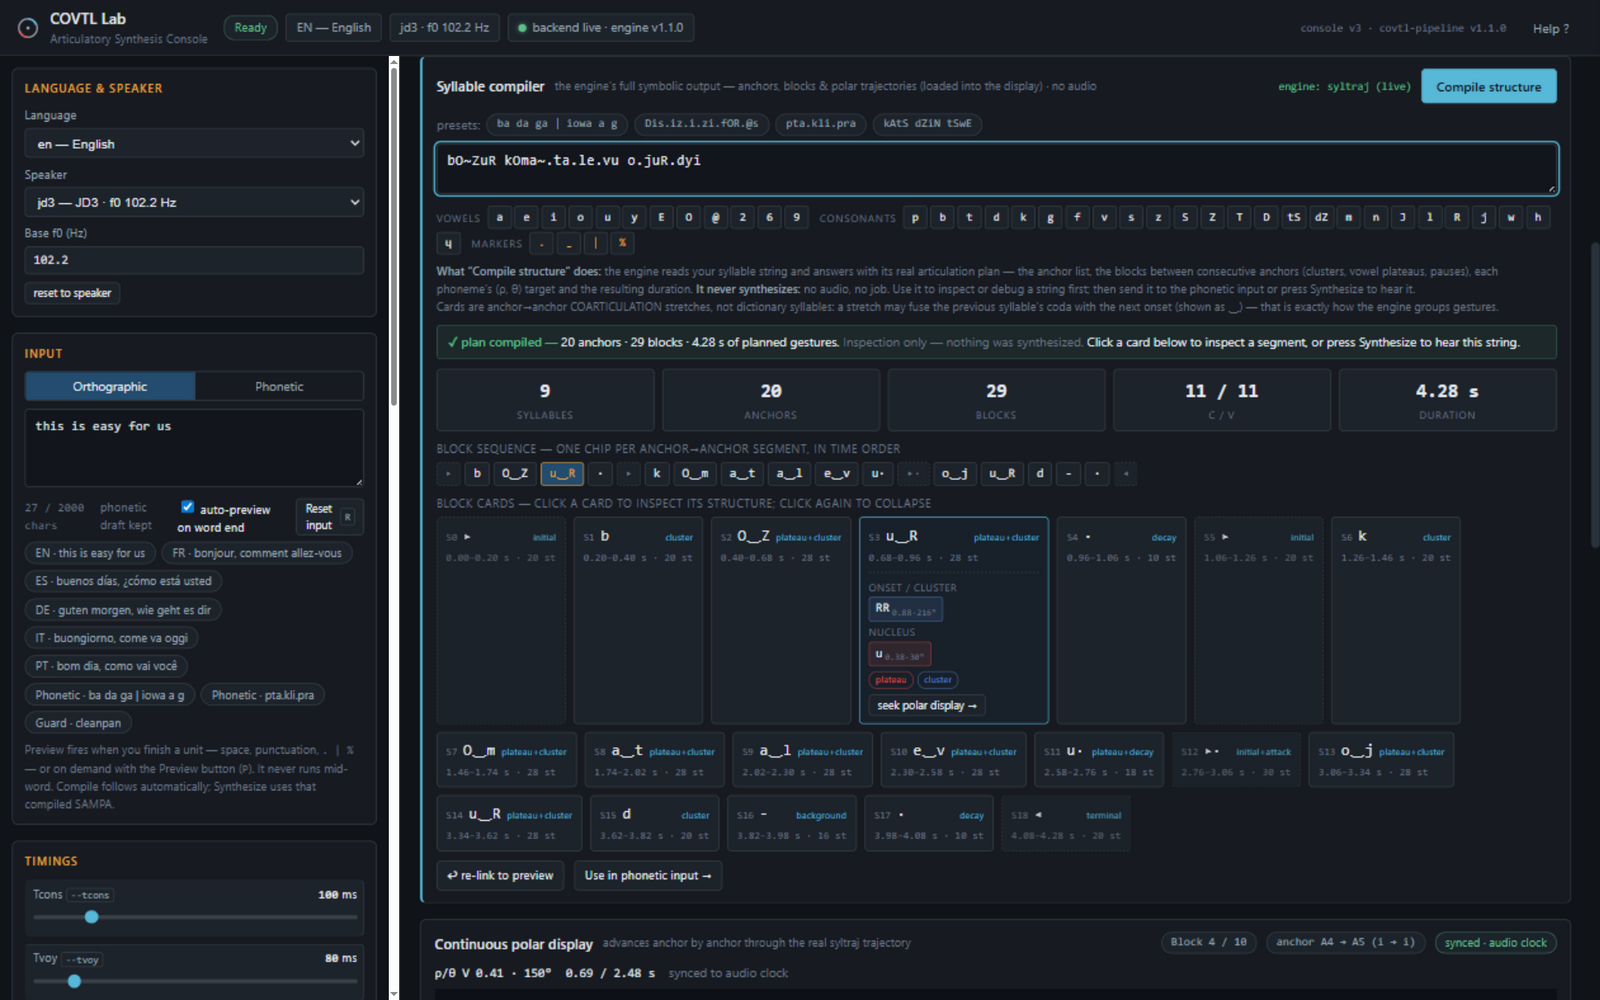
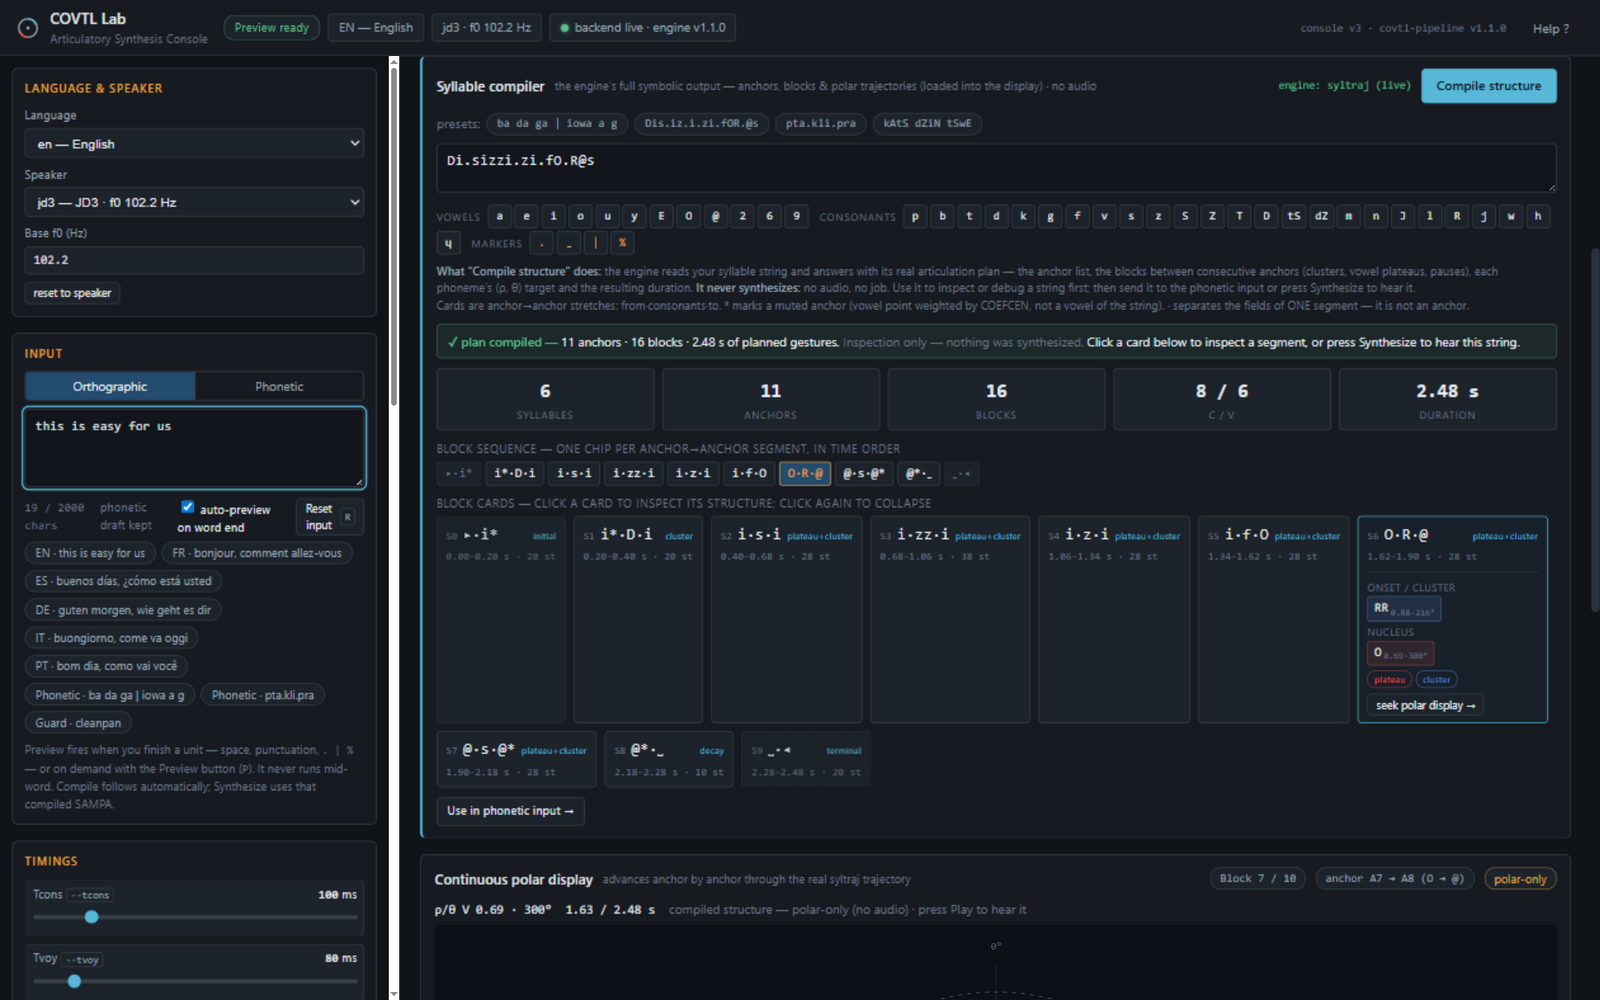
feat(ui): tile notation FROM·CONSONANTS·TO — muted anchors carry *, single server-side definition; docs + screenshots refreshed

diff --git a/covtl-console-standalone.html b/covtl-console-standalone.html
@@ -2826,10 +2826,10 @@ const KIND_TIP = {
   terminal: 'phrase-terminal arc → neutral',
 };
 
-/* chronological phoneme string of an anchor→anchor stretch: clusters and
- * plateaus in engine order, '‿' marking a consonant group that follows a
- * vowel inside the same stretch (coda of the previous syllable fused with
- * the next onset — that is the engine's coarticulation, not a syllable) */
+/* (stretchLabel removed — the tile notation is defined once, server-side:
+ * segment_notation() in server.py, exported as segments[].notation and
+ * segments_preview[].notation. Grammar: FROM·CONSONANTS·TO; '*' marks a
+ * muted anchor.) */
 const degDisplay = (rad) => ((90 - rad * 180 / Math.PI) % 360 + 360) % 360;
 
 class SyllableCompiler {
@@ -4410,8 +4410,8 @@ function flashSegment(idx) {
   compiler?.markPlayingSegment(idx);
 }
 
-/* phonetic unit label of an anchor→anchor segment: chronological stretch
- * (clusters and plateaus in engine order, ‿ = coda fused with next onset) */
+/* phonetic unit label of an anchor→anchor segment: the shared tile
+ * notation FROM·CONSONANTS·TO (server-side single definition) */
 function unitLabel(seg) {
   return seg.notation || '·';
 }

diff --git a/covtl_console/ui/js/compiler.js b/covtl_console/ui/js/compiler.js
@@ -51,10 +51,10 @@ const KIND_TIP = {
   terminal: 'phrase-terminal arc → neutral',
 };
 
-/* chronological phoneme string of an anchor→anchor stretch: clusters and
- * plateaus in engine order, '‿' marking a consonant group that follows a
- * vowel inside the same stretch (coda of the previous syllable fused with
- * the next onset — that is the engine's coarticulation, not a syllable) */
+/* (stretchLabel removed — the tile notation is defined once, server-side:
+ * segment_notation() in server.py, exported as segments[].notation and
+ * segments_preview[].notation. Grammar: FROM·CONSONANTS·TO; '*' marks a
+ * muted anchor.) */
 export const degDisplay = (rad) => ((90 - rad * 180 / Math.PI) % 360 + 360) % 360;
 
 export class SyllableCompiler {

diff --git a/covtl_console/ui/js/app.js b/covtl_console/ui/js/app.js
@@ -1154,8 +1154,8 @@ function flashSegment(idx) {
   compiler?.markPlayingSegment(idx);
 }
 
-/* phonetic unit label of an anchor→anchor segment: chronological stretch
- * (clusters and plateaus in engine order, ‿ = coda fused with next onset) */
+/* phonetic unit label of an anchor→anchor segment: the shared tile
+ * notation FROM·CONSONANTS·TO (server-side single definition) */
 function unitLabel(seg) {
   return seg.notation || '·';
 }

diff --git a/covtl_console/server.py b/covtl_console/server.py
@@ -426,8 +426,29 @@ def _instrumented_phrase_build(phrase: str, t_cons: int, t_voy: int,
             return "%" if a.breath else ("|" if a.long else "␣")
         return "▸" if a.i < 0 else "◂"
 
+    def _mute_label(a) -> str:
+        """Muted anchor label: key of the vowel whose point this anchor's
+        pt derives from (theta match, nearest node index), suffixed '*'.
+        '*' alone when no vowel node matches."""
+        best, best_d = None, None
+        if a.pt:
+            for i, n in enumerate(nodes):
+                if n.kind != "V":
+                    continue
+                d_theta = abs(float(n.theta) - float(a.pt[1]))
+                d_idx = abs(i - a.i)
+                if best_d is None or (d_theta, d_idx) < best_d:
+                    best, best_d = n, (d_theta, d_idx)
+            if best is not None:
+                return str(best.key) + "*"
+        return "*"
+
     out_anchors = [
-        {"i": k, "t": anchor_t[k] / 100.0, "kind": a.kind, "label": _node_key(a),
+        {"i": k, "t": anchor_t[k] / 100.0, "kind": a.kind,
+         "label": _mute_label(a) if (a.is_vowel_onset or a.is_word_end)
+                  else _node_key(a),
+         "mute": bool(a.is_vowel_onset or a.is_word_end),
+         "syl_onset": bool(a.is_syl_vowel_onset),
          "long": bool(a.long), "breath": bool(a.breath),
          "hold": bool(a.hold), "word_end": bool(a.is_word_end),
          "pt": ([float(a.pt[0]), float(a.pt[1])] if a.pt else None)}
@@ -552,6 +573,24 @@ def _rho_max_of(polar_doc: Dict[str, Any]) -> float:
     return m
 
 
+def segment_notation(a0: Dict[str, Any], a1: Dict[str, Any],
+                     span_blocks: List[Dict[str, Any]]) -> str:
+    """Tile notation for ONE anchor-to-anchor segment:
+    FROM · CONSONANTS · TO (no consonants: FROM·TO).
+
+    FROM / TO are the bounding anchor labels --- a real vowel keeps its key,
+    a muted anchor carries the key of the vowel its point derives from plus
+    '*' (e.g. "i*"); pauses and terminals keep "␣" "|" "%" "▸" "◂".
+    CONSONANTS is the concatenated cons_keys of the cluster blocks strictly
+    inside the interval. '·' is a field separator, NOT an anchor: "i·b·a" is
+    a single segment i → a whose interior consonant block is b."""
+    frm = a0.get("label") or "*"
+    to = a1.get("label") or "*"
+    cons = "".join(ck for b in span_blocks if b.get("kind") == "cluster"
+                   for ck in (b.get("cons_keys") or []))
+    return "·".join(x for x in (frm, cons, to) if x)
+
+
 def build_segment_payload(job: Dict[str, Any], from_k: int = 0,
                           mode: str = "inc") -> Dict[str, Any]:
     """Merge the recorded structure (anchors/blocks) with the .polar
@@ -612,6 +651,7 @@ def _segments_from(polar_doc: Dict[str, Any], anchors: List[Dict[str, Any]],
             "segment_index": k, "t0": round(a0["t"], 3), "t1": round(a1["t"], 3),
             "anchor_from": a0["i"], "anchor_to": a1["i"],
             "label_from": a0["label"], "label_to": a1["label"],
+            "notation": segment_notation(a0, a1, span_blocks),
             "blocks": [{kk: b.get(kk) for kk in ("kind", "n_steps", "cons_keys",
                                                  "vowel_key", "long", "breath",
                                                  "hiatus", "t0", "t1")}
@@ -1182,34 +1222,11 @@ def compile_blocks(req: CompileRequest) -> Dict[str, Any]:
         hiatus = next((b["hiatus"] for b in span if b.get("hiatus")), "")
         label = ("".join(cons) + (vowel or "")) or hiatus or a0["label"] \
             or a1["label"] or "-"
-        # chronological stretch string: engine order, '‿' marks consonants
-        # following a vowel inside the same stretch (coda fused with the
-        # next onset — coarticulation, not a syllable boundary)
-        out_s: str = ""
-        saw_vowel = False
-        for b in span:
-            if b["kind"] == "plateau":
-                out_s += (b["vowel_key"] or "@")
-                saw_vowel = True
-            elif b["kind"] == "cluster" and b["cons_keys"]:
-                out_s += ("‿" if saw_vowel else "") + "".join(b["cons_keys"])
-            elif b["kind"] == "background":
-                out_s += b.get("hiatus") or "-"
-            elif b["breath"]:
-                out_s += "%"
-            elif b["kind"] == "pause":
-                out_s += ("|" if b["long"] else "␣")
-            elif b["kind"] == "background":
-                # V1V2 arc — no plateau: label with the arrival vowel
-                out_s += "‿" + (a1["label"] or "")
-            elif b["kind"] in ("decay", "attack"):
-                out_s += "·"
-            elif b["kind"] == "initial" and not out_s:
-                out_s += "▸"
-            elif b["kind"] == "terminal":
-                out_s += "◂"
+        # tile notation (single definition, _segments_from shares it):
+        # FROM · CONSONANTS · TO for one anchor-to-anchor segment
+        notation = segment_notation(a0, a1, span)
         labeled.append({"segment_index": k, "t0": a0["t"], "t1": a1["t"],
-                        "label": label, "stretch": out_s or "-",
+                        "label": label, "notation": notation,
                         "label_to": a1["label"], "cons": cons, "vowel": vowel,
                         "kinds": [b["kind"] for b in span],
                         "n_steps": int(round((a1["t"] - a0["t"]) * 100))})

diff --git a/docs/flash-validation-report.md b/docs/flash-validation-report.md
@@ -3,6 +3,8 @@
 
 # Flash-install validation campaign — report (2026-11-04)
 
+> **Update 2026-11-04 (tile notation refactor):** the stretch labels shown below with the `‿` coarticulation marker have been replaced by the unambiguous tile notation `FROM·CONSONANTS·TO` (muted anchors carry `*`; `·` is a field separator, not an anchor). See `CHANGES_v3.md` in the console repository.
+
 Everything needed to decide the PyPI publication of `covtl-sandhi`,
 `vtl-synth` and `covtl-console`. **The publication itself is out of
 scope**; TestPyPI dry runs were not exercised either (no account step

diff --git a/tests/test_frontend_checklist.md b/tests/test_frontend_checklist.md
@@ -93,7 +93,7 @@ must read **live**.
       the old response is dropped when it lands (no flicker of stale data).
 - [ ] Metric tiles (syllables · anchors · blocks · C/V · duration) match
       the engine metrics for the worked example (6 · 11 · 16 · … · 2.38 s).
-- [ ] Stretch labels are chronological and coda stretches carry the `‿`
+- [ ] Tiles are chronological and read from·consonants·to (`*` = muted anchor)
       coarticulation marker (e.g. in `Dis.iz.i.zi.fOR.@s`).
 - [ ] Block cards are clickable; “use in phonetic input” pushes the string
       to the stage.
